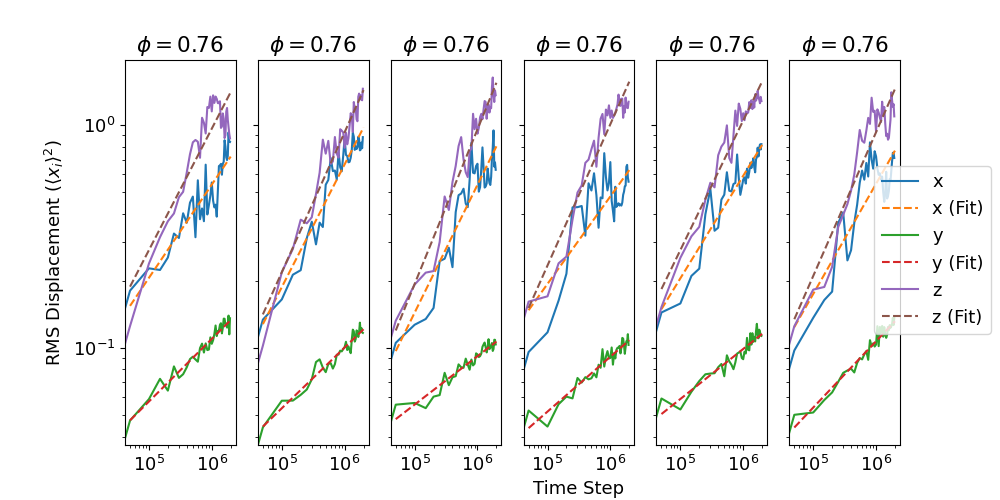
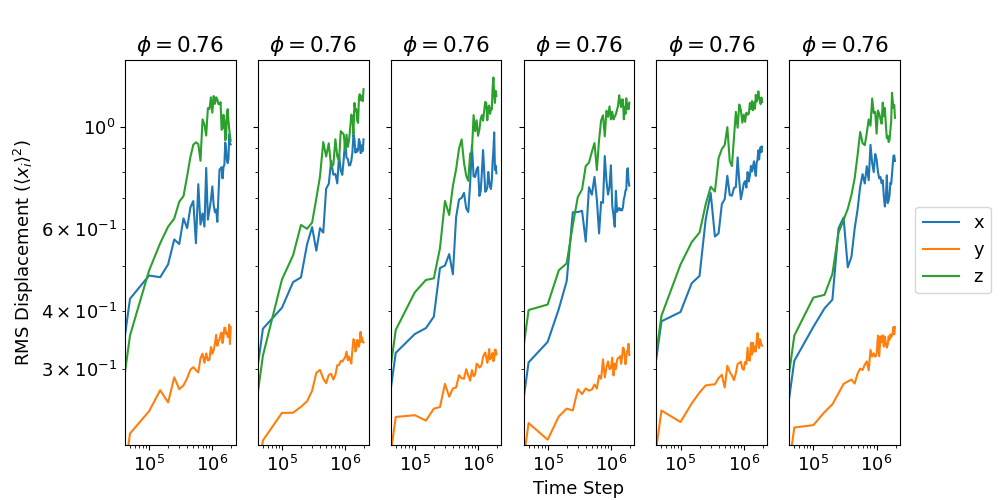
full diagonalisation procedure

diff --git a/Phase_Structure/Nunchucks/Fixed_Angle/Crystalline/No_Transition/diffusion_matrix.py b/Phase_Structure/Nunchucks/Fixed_Angle/Crystalline/No_Transition/diffusion_matrix.py
@@ -1,6 +1,13 @@
 """Calculates the diffusion matrix over each equillibration run. 
-Accounts for additional displacement when crossing the periodic boundary conditions
+This is then diagonalised to determine the principle axes of the system.
 
+However, to ensure uniform measurement/comparison during a simulation, these
+are only compiuted for the total displacement over the lifetime of the simulation.
+These axes are then used as a basis, which converts cartesian displacements to 
+the displacements in the basis of the system. This ensures the basis is constant
+for each sample.
+
+Accounts for additional displacement when crossing the periodic boundary conditions
 This file is adapted for no contraction periods, and biaxial phase structure"""
 
 import numpy as np
@@ -10,7 +17,9 @@ from scipy.stats import linregress  # for linear regression
 from phase_plot import vol_frac
 
 FILE_ROOT = "output_T_0.5_time_"  # two underscores to match typo in previous code
+USE_CARTESIAN_BASIS = False
 PLOT_BEST_FIT = True
+
 
 plt.rcParams.update({"font.size": 13})  # for figures to go into latex at halfwidth
 
@@ -259,38 +268,70 @@ sampled_vol_frac = vol_frac(sampled_vol_values, mol_length, N_molecules)
 
 fig, axs = plt.subplots(nrows=1, ncols=len(plot_list), sharey=True, figsize=(10, 5))
 for plot_index, data_index in enumerate(plot_list):
+
+    #   DATA EXTRACTION
+    eq_time_values = np.array(eq_range)
+    # eq_time_values[0] = eq_time_values[1]  # remove zero so log can be evaluated
+
+    rms_disp_proj = np.zeros_like(rms_disp_values[data_index, :, :, 0])
+    # only need a 3x1 vector for each time point in each sample, not a 3x3 matrix
+
+    #   MATRIX DIAGONALISATION
+    final_displacement = rms_disp_values[data_index, -2, :, :]
+    # penultimate array used as final array is nans
+    eigen_val, vec_basis = np.linalg.eig(final_displacement)
+
+    axis_labels = ["Ax 1", "Ax 2", "Ax 3"]  # until they have been identified
+    # axis_labels = ["Director", "Bisector", "Normal"]  # once they have been identified
+
+    if (
+        USE_CARTESIAN_BASIS
+    ):  # Non-diagonalised case used for testing - override prev basis
+        vec_basis = np.identity(3)
+        axis_labels = ["x", "y", "z"]
+
+    print(vec_basis)
+
+    for i in range(len(eq_range)):
+        rms_disp_proj[i, :] = np.matmul(
+            vec_basis, np.diagonal(rms_disp_values[data_index, i, :, :])
+        )
+
+    #   PLOTTING
+
     axs[plot_index].set_title(
         r"$\phi =$" + "{:.2f}".format(sampled_vol_frac[data_index])
     )
 
-    eq_time_values = np.array(eq_range)
-    eq_time_values[0] = eq_time_values[1]  # remove zero so log can be evaluated
+    plot_times = eq_time_values[1:-1]
+    plot_data = np.abs(rms_disp_proj[1:-1, :])
+    # remove end values as nan at end and zero at start, so log10 gives errors here
 
-    plot_data = np.zeros_like(rms_disp_values[data_index, :, :, 0])
-    # only need a 3x1 vector for each time point in each sample, not a 3x3 matrix
-
-    for i in range(len(eq_range)):
-        for j in range(3):
-            plot_data[i, j] = rms_disp_values[
-                data_index, i, j, j
-            ]  # pick out diagonal terms
+    # print(plot_times)
+    # print(plot_data)
 
     # rms_disp has values for all timesteps in sample. so apply the same dot operation to all vectors
+    colours = ["r", "g", "b"]
+    colours_fit = ["m", "y", "c"]
     for j in range(3):
         axs[plot_index].loglog(
-            eq_range, plot_data[:, j], label=label_maker(axis_labels[j], plot_index)
+            plot_times,
+            plot_data[:, j],
+            label=label_maker(axis_labels[j], plot_index),
+            color=colours[j],
         )
 
         if PLOT_BEST_FIT:
             slope, intercept, r_value, p_value, std_err = linregress(
-                np.log10(eq_time_values[1:-1]), np.log10(plot_data[1:-1, j])
-            )  # remove first and last values in array as nan at end and zero at start
+                np.log10(plot_times), np.log10(plot_data[:, j])
+            )
             label = str(axis_labels[j]) + " (Fit)"
             axs[plot_index].plot(
-                eq_time_values,
-                (eq_time_values ** slope) * (10 ** intercept),
+                plot_times,
+                (plot_times ** slope) * (10 ** intercept),
                 label=label_maker(label, plot_index),
                 linestyle="dashed",
+                color=colours_fit[j],
             )
 
             print(
@@ -302,15 +343,14 @@ for plot_index, data_index in enumerate(plot_list):
                 + str(axis_labels[j])
             )  # can add this onto graph with plt.annotate if desired
 
+# gca = "get current axis"
+ax = plt.gca()
+# ax.get_ylim() returns a tuple of (lower ylim, upper ylim)
+ax.set_ylim((0.01, None))
+
 axs[int(len(plot_list) / 2)].set_xlabel("Time Step")  # use median of plot_list
 axs[0].set_ylabel(r"RMS Displacement ($\langle x_{i}\rangle^{2}$)")
 fig.legend(loc="center right")
-plt.savefig("rms_displacement_runwise_bf_cf.png")
+plt.savefig("rms_displacement_runwise_matrix.png")
 plt.show()
-
-# print("Mean Director: " + str(np.mean(director_vectors, axis=0)))
-# print("Mean Bisector: " + str(np.mean(bisector_vectors, axis=0)))
-# print(
-#     "Mean Normal : " + str(np.mean(normal_vectors, axis=0))
-# )  # NaN if USE_SYS_BASIS = False
 
